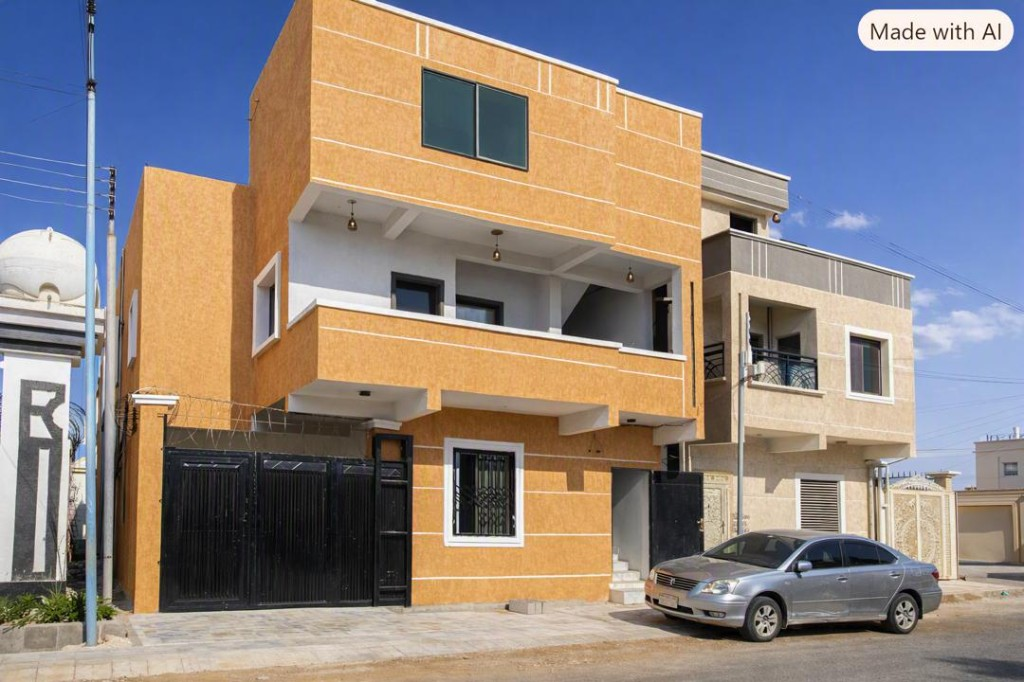
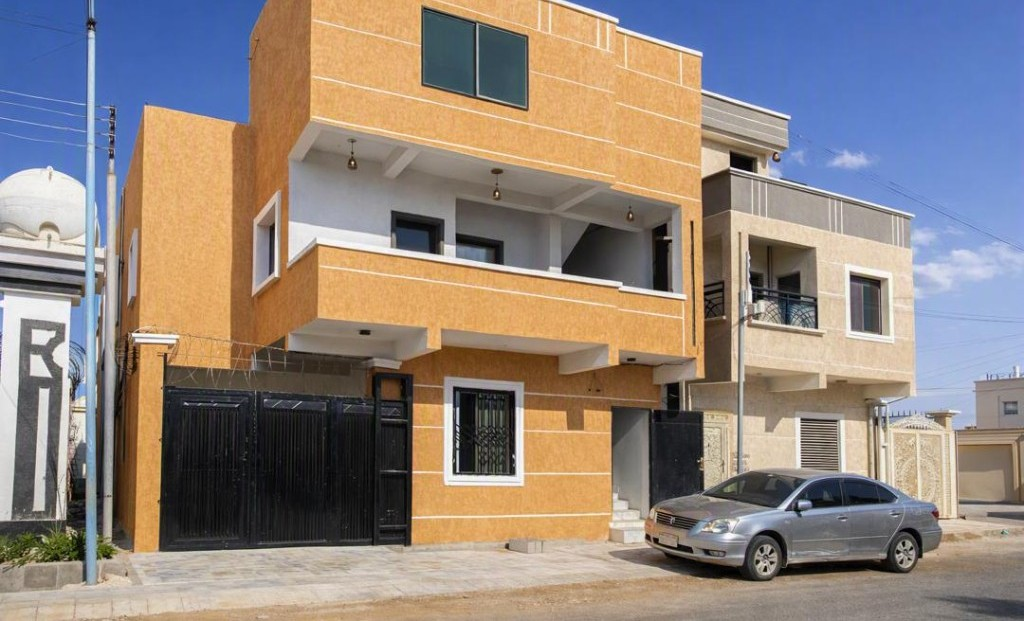
Frame hero photos so the houses sit cleanly in the cinematic layout.

diff --git a/public/css/hq.css b/public/css/hq.css
@@ -1126,31 +1126,35 @@ body.hq-menu-open {
   opacity: 0;
   visibility: hidden;
   pointer-events: none;
-  transform: scale(1.04);
-  transition: opacity .8s var(--hq-ease), transform 1.1s var(--hq-ease), visibility .8s;
+  transform: none;
+  transition: opacity .85s var(--hq-ease), visibility .85s;
 }
 
 .hq-hero--cinematic .hq-hero__panes--media .hq-hero__pane.is-active {
   opacity: 1;
   visibility: visible;
-  transform: scale(1);
+  transform: none;
   z-index: 1;
+}
+
+.hq-hero--cinematic .hq-hero__shot picture {
+  position: absolute;
+  inset: 0;
+  display: block;
+  width: 100%;
+  height: 100%;
+  overflow: hidden;
 }
 
 .hq-hero--cinematic .hq-hero__shot img {
   width: 100%;
   height: 100%;
+  min-width: 100%;
+  min-height: 100%;
   object-fit: cover;
-  object-position: center center;
+  object-position: var(--hero-focus, 70% 42%);
   display: block;
-  transform-origin: center center;
-  will-change: transform;
-}
-
-.hq-hero--cinematic .hq-hero__shot picture {
-  display: block;
-  width: 100%;
-  height: 100%;
+  transform-origin: var(--hero-focus, 70% 42%);
 }
 
 .hq-hero--cinematic .hq-hero__shot-dim {
@@ -1164,11 +1168,11 @@ body.hq-menu-open {
 .hq-hero--cinematic .hq-hero__caption { z-index: 2; }
 
 .hq-hero[data-transition="kenburns"] .hq-hero__shot.is-active img {
-  animation: hq-hero-kenburns 14s ease-out forwards;
+  animation: hq-hero-kenburns 16s ease-out forwards;
 }
 
 .hq-hero[data-transition="slide"] .hq-hero__panes--media .hq-hero__pane {
-  transform: translateX(6%);
+  transform: translateX(4%);
 }
 
 .hq-hero[data-transition="slide"] .hq-hero__panes--media .hq-hero__pane.is-active {
@@ -1190,8 +1194,8 @@ body.hq-menu-open {
 .hq-hero__pane--align-right .hq-hero__chrome { margin-left: auto; }
 
 @keyframes hq-hero-kenburns {
-  from { transform: scale(1); }
-  to { transform: scale(1.08); }
+  from { transform: scale(1.01); }
+  to { transform: scale(1.045); }
 }
 
 .hq-hero--cinematic .hq-hero__wash {
@@ -1199,8 +1203,8 @@ body.hq-menu-open {
   inset: 0;
   z-index: 2;
   background:
-    linear-gradient(90deg, rgba(1, 15, 36, 0.92) 0%, rgba(1, 15, 36, 0.78) 34%, rgba(1, 15, 36, 0.42) 62%, rgba(1, 15, 36, 0.22) 100%),
-    linear-gradient(180deg, rgba(1, 15, 36, 0.55) 0%, rgba(1, 15, 36, 0.12) 38%, rgba(1, 15, 36, 0.72) 100%);
+    linear-gradient(90deg, rgba(1, 15, 36, 0.86) 0%, rgba(1, 15, 36, 0.52) 26%, rgba(1, 15, 36, 0.16) 54%, rgba(1, 15, 36, 0.06) 100%),
+    linear-gradient(180deg, rgba(1, 15, 36, 0.38) 0%, rgba(1, 15, 36, 0.08) 34%, rgba(1, 15, 36, 0.58) 100%);
 }
 
 .hq-hero--cinematic .hq-hero__scrim {
@@ -1715,10 +1719,14 @@ body.hq-menu-open {
 }
 
 @media (max-width: 1180px) {
+  .hq-hero--cinematic .hq-hero__shot img {
+    object-position: var(--hero-focus-mobile, 50% 34%);
+    transform-origin: var(--hero-focus-mobile, 50% 34%);
+  }
   .hq-hero--cinematic .hq-hero__wash {
     background:
-      linear-gradient(180deg, rgba(1, 15, 36, 0.58) 0%, rgba(1, 15, 36, 0.72) 42%, rgba(1, 15, 36, 0.88) 100%),
-      linear-gradient(90deg, rgba(1, 15, 36, 0.55) 0%, rgba(1, 15, 36, 0.28) 100%);
+      linear-gradient(180deg, rgba(1, 15, 36, 0.42) 0%, rgba(1, 15, 36, 0.58) 46%, rgba(1, 15, 36, 0.86) 100%),
+      linear-gradient(90deg, rgba(1, 15, 36, 0.38) 0%, rgba(1, 15, 36, 0.12) 100%);
   }
   .hq-hero--cinematic .hq-hero__caption { display: none; }
 }
@@ -1734,7 +1742,7 @@ body.hq-menu-open {
 @media (max-width: 900px) {
   .hq-hero--cinematic .hq-hero__wash {
     background:
-      linear-gradient(180deg, rgba(1, 15, 36, 0.62) 0%, rgba(1, 15, 36, 0.78) 48%, rgba(1, 15, 36, 0.94) 100%);
+      linear-gradient(180deg, rgba(1, 15, 36, 0.28) 0%, rgba(1, 15, 36, 0.46) 42%, rgba(1, 15, 36, 0.9) 100%);
   }
   .hq-hero--cinematic .hq-hero__wrap {
     padding-top: calc(var(--hq-chrome-h) + var(--hero-space-3));

diff --git a/app/helpers.php b/app/helpers.php
@@ -487,7 +487,7 @@ function heroSliderCatalog(): array
             'button_link_2' => '/projects',
             'image' => 'images/builds/hero-street-villa.jpg',
             'badge_text' => 'Garowe · Street villa',
-            'image_focus' => 'center',
+            'image_focus' => 'right',
             'overlay_opacity' => 0.55,
             'is_published' => 1,
             'show_description' => 1,
@@ -502,7 +502,7 @@ function heroSliderCatalog(): array
             'button_link_2' => '/projects',
             'image' => 'images/builds/hero-night-villa.jpg',
             'badge_text' => 'Garowe · Night',
-            'image_focus' => 'center',
+            'image_focus' => 'right',
             'overlay_opacity' => 0.5,
             'is_published' => 1,
             'show_description' => 1,
@@ -517,7 +517,7 @@ function heroSliderCatalog(): array
             'button_link_2' => '/projects',
             'image' => 'images/builds/hero-compound-villa.jpg',
             'badge_text' => 'Garowe · Compound',
-            'image_focus' => 'center',
+            'image_focus' => 'right',
             'overlay_opacity' => 0.55,
             'is_published' => 1,
             'show_description' => 1,
@@ -541,6 +541,47 @@ function heroSlideImageUrl(array $slide, int $index = 0): string
         return $fallback;
     }
     return mediaPathUrl($image, $fallback);
+}
+
+/**
+ * @return array{desk: string, mobile: string}
+ */
+function heroSlideFocus(array $slide, int $index = 0): array
+{
+    $image = strtolower((string)($slide['image'] ?? ''));
+    $framed = [
+        'hero-street-villa' => ['desk' => '76% 54%', 'mobile' => '50% 42%'],
+        'hero-night-villa' => ['desk' => '62% 32%', 'mobile' => '54% 28%'],
+        'hero-compound-villa' => ['desk' => '68% 40%', 'mobile' => '50% 36%'],
+    ];
+    foreach ($framed as $key => $pos) {
+        if (str_contains($image, $key)) {
+            $raw = trim((string)($slide['image_focus'] ?? ''));
+            if ($raw !== '' && !in_array($raw, ['center', 'top', 'bottom'], true)) {
+                return ['desk' => $raw, 'mobile' => $pos['mobile']];
+            }
+            if ($raw === 'top') {
+                return ['desk' => '70% 28%', 'mobile' => '50% 22%'];
+            }
+            if ($raw === 'bottom') {
+                return ['desk' => '70% 72%', 'mobile' => '50% 58%'];
+            }
+            return $pos;
+        }
+    }
+
+    $map = [
+        'center' => ['desk' => '70% 42%', 'mobile' => '50% 34%'],
+        'top' => ['desk' => '50% 28%', 'mobile' => '50% 22%'],
+        'bottom' => ['desk' => '50% 72%', 'mobile' => '50% 58%'],
+        'right' => ['desk' => '78% 46%', 'mobile' => '62% 38%'],
+        'left' => ['desk' => '28% 46%', 'mobile' => '40% 38%'],
+    ];
+    $raw = trim((string)($slide['image_focus'] ?? 'center'));
+    if (str_contains($raw, '%')) {
+        return ['desk' => $raw, 'mobile' => $raw];
+    }
+    return $map[$raw] ?? $map['center'];
 }
 
 function isStaleHeroSlideCopy(string $title): bool

diff --git a/views/home/index.php b/views/home/index.php
@@ -345,7 +345,6 @@ $heroCarouselOpts = [
     : 'kenburns',
 ];
 $heroMulti = count($sliders) > 1;
-$imageFocusMap = ['center' => 'center', 'top' => 'center top', 'bottom' => 'center bottom'];
 
 $heroMetrics = [
   ['num' => statNumber((string)($settings['stat_projects'] ?? '8')), 'suffix' => '+', 'label' => 'Projects Profiled', 'icon' => 'bi-buildings'],
@@ -385,7 +384,7 @@ $heroBandStats = array_map(static fn(array $stat): array => [
         $sMobile = !empty($slide['mobile_image']) && !isStaleHeroSlideImage((string)$slide['mobile_image'])
           ? mediaPathUrl((string)$slide['mobile_image'])
           : '';
-        $focus = $imageFocusMap[$slide['image_focus'] ?? 'center'] ?? 'center';
+        $focus = heroSlideFocus($slide, (int)$i);
         $badge = trim((string)($slide['badge_text'] ?? '')) ?: $defaultHeroTag;
         $slideTitle = (string)($slide['title'] ?? $siteName);
         $slideOverlay = min(0.4, max(0, (float)($slide['overlay_opacity'] ?? 0.6) * 0.45));
@@ -402,6 +401,7 @@ $heroBandStats = array_map(static fn(array $stat): array => [
         data-hero-pane
         data-hero-transition="<?= e($slideTransition) ?>"
         data-hero-duration="<?= (int)$slideDuration * 1000 ?>"
+        style="--hero-focus: <?= e($focus['desk']) ?>; --hero-focus-mobile: <?= e($focus['mobile']) ?>;"
         aria-hidden="<?= $i === 0 ? 'false' : 'true' ?>"
       >
         <picture>
@@ -417,7 +417,6 @@ $heroBandStats = array_map(static fn(array $stat): array => [
             loading="<?= $i === 0 ? 'eager' : 'lazy' ?>"
             decoding="async"
             fetchpriority="<?= $i === 0 ? 'high' : 'low' ?>"
-            style="object-position:<?= e($focus) ?>"
           >
         </picture>
         <span class="hq-hero__shot-dim" style="opacity:<?= e((string)$slideOverlay) ?>" aria-hidden="true"></span>

diff --git a/views/layouts/main.php b/views/layouts/main.php
@@ -38,7 +38,7 @@
   <link rel="preconnect" href="https://fonts.gstatic.com" crossorigin>
   <link href="https://fonts.googleapis.com/css2?family=Playfair+Display:wght@400;600;700&family=Inter:wght@400;500;600;700&display=swap" rel="stylesheet">
   <link rel="stylesheet" href="https://cdn.jsdelivr.net/npm/bootstrap-icons@1.11.3/font/bootstrap-icons.min.css">
-  <link rel="stylesheet" href="<?= asset('css/hq.css') ?>?v=<?= @filemtime(PUBLIC_PATH . '/css/hq.css') ?: time() ?>&hc=16">
+  <link rel="stylesheet" href="<?= asset('css/hq.css') ?>?v=<?= @filemtime(PUBLIC_PATH . '/css/hq.css') ?: time() ?>&hc=17">
   <?php if (!empty($themeCss = brandThemeStyle($settings ?? []))): ?>
   <style id="hq-brand-theme"><?= $themeCss ?></style>
   <?php endif; ?>
